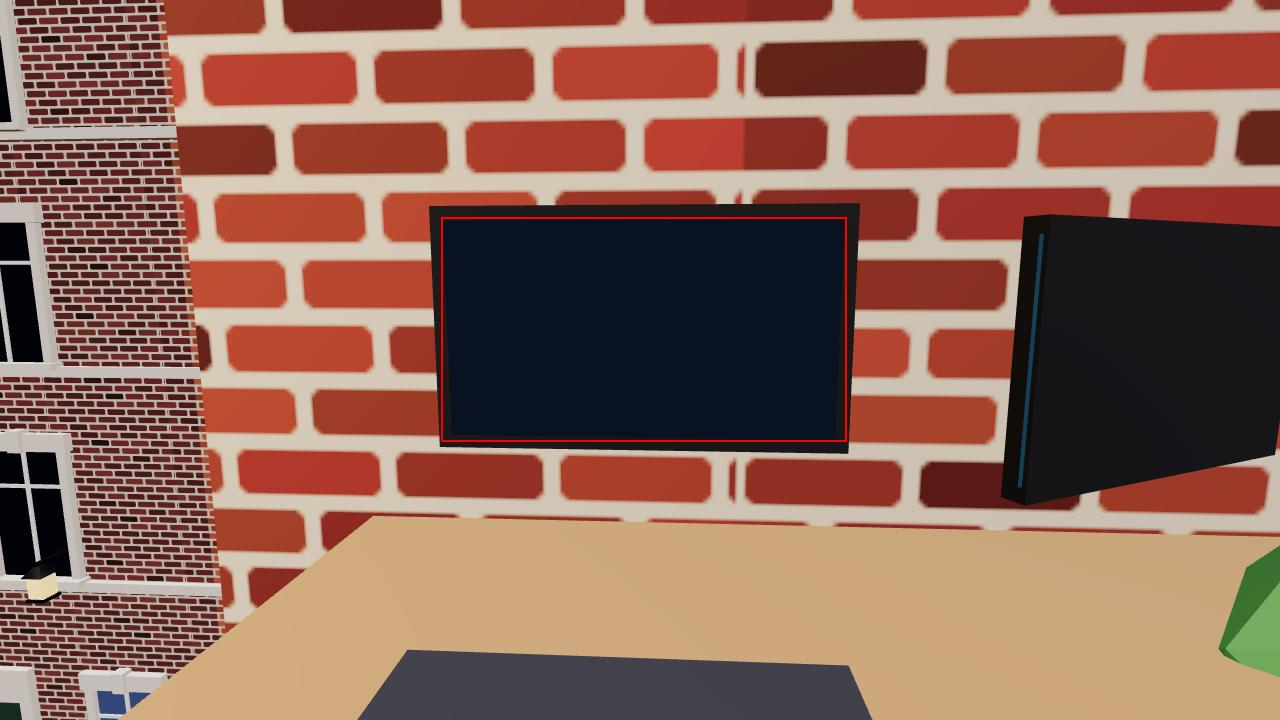
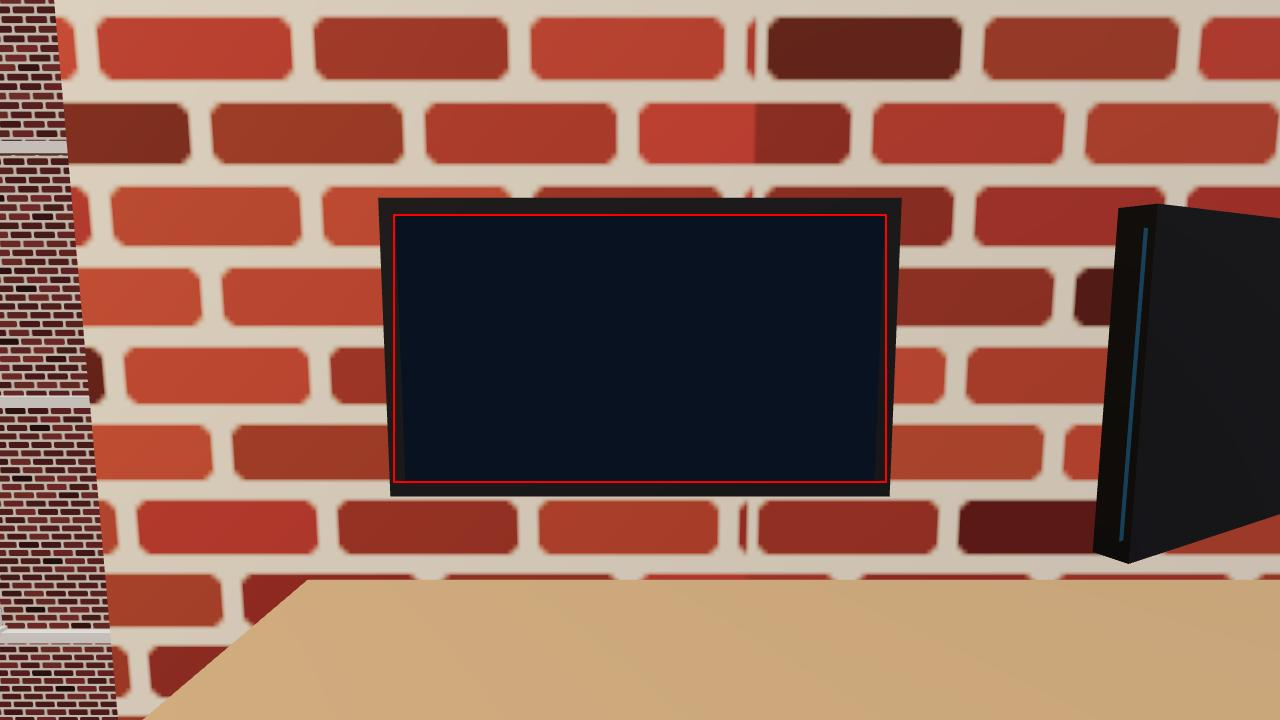
art-v1.2: world.sofa (position, seat, doze anchor, box); home day camera static at 0.70 m from the desk screen (rect ~490×265 at 1280×720, constant)

diff --git a/src/art/apartment.js b/src/art/apartment.js
@@ -78,6 +78,13 @@ export function buildApartment(city, scene, { F, bz, W }) {
   const sofa = M(0x7a8f7a);
   box(2.2, 0.42, 0.85, sofa, -5.6, F + 0.21, zb - 0.45); box(2.2, 0.45, 0.2, sofa, -5.6, F + 0.65, zb - 0.1);
   box(0.85, 0.42, 1.3, sofa, -6.5, F + 0.21, zb - 1.5); box(0.2, 0.45, 1.3, sofa, -6.85, F + 0.65, zb - 1.5);
+  // world.sofa : où Pilou s'écroule les soirs où il ne rejoint pas son lit (facteur qualité du sommeil)
+  const sofaSpot = {
+    position: new THREE.Vector3(-5.6, F, zb - 0.45), // centre de l'assise longue, au sol
+    seat: new THREE.Vector3(-5.6, F + 0.42, zb - 0.5), // assis, face au séjour (-z)
+    doze: { position: new THREE.Vector3(-5.5, F + 0.45, zb - 0.5), yaw: Math.PI / 2, head: new THREE.Vector3(-4.75, F + 0.55, zb - 0.5) }, // allongé le long du dossier, tête côté accoudoir est
+    box: { x0: -6.95, x1: -4.5, z0: zb - 2.15, z1: zb },
+  };
   for (const dx of [-0.5, 0.2]) box(0.45, 0.35, 0.12, M(0xe9c46a), -5.6 + dx, F + 0.62, zb - 0.28);
   box(2.2, 0.01, 1.6, M(0xc4614f), -5.4, F + 0.01, bz + 0.6);
   // LE bureau de Pilou, contre la façade, juste à côté de la fenêtre : deux écrans
@@ -181,5 +188,5 @@ export function buildApartment(city, scene, { F, bz, W }) {
     }
     return p;
   }
-  return { apt, bed, aptDoor, homeScreen, homeSeat, collide, light, rooms: { living: [xs, -7.0], corridor: [-7.0, xb], bedroom: [-9.5, -12.5], daughter: [-12.5, xb], bathroom: [-7.0, -9.5] } };
+  return { apt, bed, aptDoor, homeScreen, homeSeat, sofa: sofaSpot, collide, light, rooms: { living: [xs, -7.0], corridor: [-7.0, xb], bedroom: [-9.5, -12.5], daughter: [-12.5, xb], bathroom: [-7.0, -9.5] } };
 }

diff --git a/src/art/day.js b/src/art/day.js
@@ -148,18 +148,16 @@ async function streetScene() {
 async function homeScene(opts = {}) {
   const base = await streetScene(opts); // la rue de jour vit dehors (livraisons, terrasses qu'on installe…)
   const { world } = dayStreet;
-  const seat = world.homeSeat, screen = world.homeScreen;
+  const screen = world.homeScreen;
   const camera = new THREE.PerspectiveCamera(60, 16 / 9, 0.03, 160);
-  const eye = new THREE.Vector3(seat.x - 0.05, seat.y + 1.16, seat.z - 0.05);
-  const look = screen.position.clone().setY(screen.position.y - 0.04);
+  // caméra fixe, à 0,70 m de l’écran : à 1280×720 le terminal fait ~490×265 px (seuil UI 420×240), et le rectangle ne bouge pas
+  const eye = new THREE.Vector3(screen.position.x - 0.7, screen.position.y + 0.06, screen.position.z);
+  const look = screen.position.clone().setY(screen.position.y - 0.01);
+  camera.position.copy(eye); camera.lookAt(look);
   return {
     scene: base.scene, camera, screen,
     update(dt, t) {
       base.update(dt, t); // anime la rue (et sa caméra, qu'on n'utilise pas)
-      // de temps en temps, le regard file vers la fenêtre (distractions de la rue)
-      const glance = Math.max(0, Math.sin(t * 0.21) - 0.75) * 4;
-      camera.position.set(eye.x + Math.sin(t * 0.3) * 0.01, eye.y + Math.sin(t * 1.1) * 0.005, eye.z);
-      camera.lookAt(look.x, look.y + glance * 0.1, look.z - glance * 1.4);
     },
     dispose: base.dispose,
   };

diff --git a/src/world.js b/src/world.js
@@ -514,6 +514,7 @@ export function buildWorld(scene, opts = {}) {
     aptCollide: flat.collide,
     homeScreen: flat.homeScreen,
     homeSeat: flat.homeSeat,
+    sofa: flat.sofa, // { position, seat, doze: { position, yaw, head }, box } — la sieste / nuit sur le canapé
     aptRooms: flat.rooms,
     emissiveMaterials,
     windowSpots: kit.windows,

diff --git a/GAME_DESIGN.md b/GAME_DESIGN.md
@@ -918,3 +918,5 @@ so it reflects what the player actually did.
 - Street life: after 10–13 game minutes (20–26 s real) with no visible line, one of 64 `AMBIENT` micro-moments is logged (`sim.note('ambient', { id })`); some push a brief noise burst into `S.clatters` or call `klaasAlert()`. None while Pilou sleeps, never twice in a night, not twice in a campaign while others remain.
 - Line memory: `narrative.pickNightLine` and `narrative.policeLine(…, sim)` pick through `sim.pacing.choose`, so a line isn't reused in the same night or the next. `campaign.js` stores `S.pacingMemory = sim.pacing.memory()` at `finishNight` and passes it as `carry.pacing` (survives the night reload through the save). `game.js`'s narrator passes `s` to `policeLine`.
 - Effects measured: `qa/fun-audit.md` (dead time 248 s → 12 s per night, no consecutive pair above 0.7); `npm run sim -- --runs 200` unchanged within ±2 points on every bot (avg Sleep −1).
+
+- **Build note art-v1.2** — `world.sofa` = `{ position, seat, doze: { position, yaw, head }, box }` : `position` au sol au centre de l'assise longue du canapé d'angle (séjour), `seat` pour s'y asseoir (face au séjour), `doze` pour s'y allonger (Pilou couché le long du dossier, `yaw` = π/2, tête vers l'accoudoir est en `doze.head`), `box` = son emprise au sol. Attention : `doze.position` est dans la boîte de collision du canapé, donc ne pas appeler `world.aptCollide` tant que Pilou y dort. Télétravail (`art.day.start('home')`) : caméra désormais **fixe** (plus de balancement ni de coup d'œil vers la fenêtre), à 0,70 m de l'écran du bureau du séjour ; à 1280×720, `screenRect()` ≈ 490×265 px (au-dessus du seuil UI 420×240) et identique d'une image à l'autre (vérifié sur 1 800 pas). `koddex` garde son léger balancement : je peux le figer aussi sur demande.
